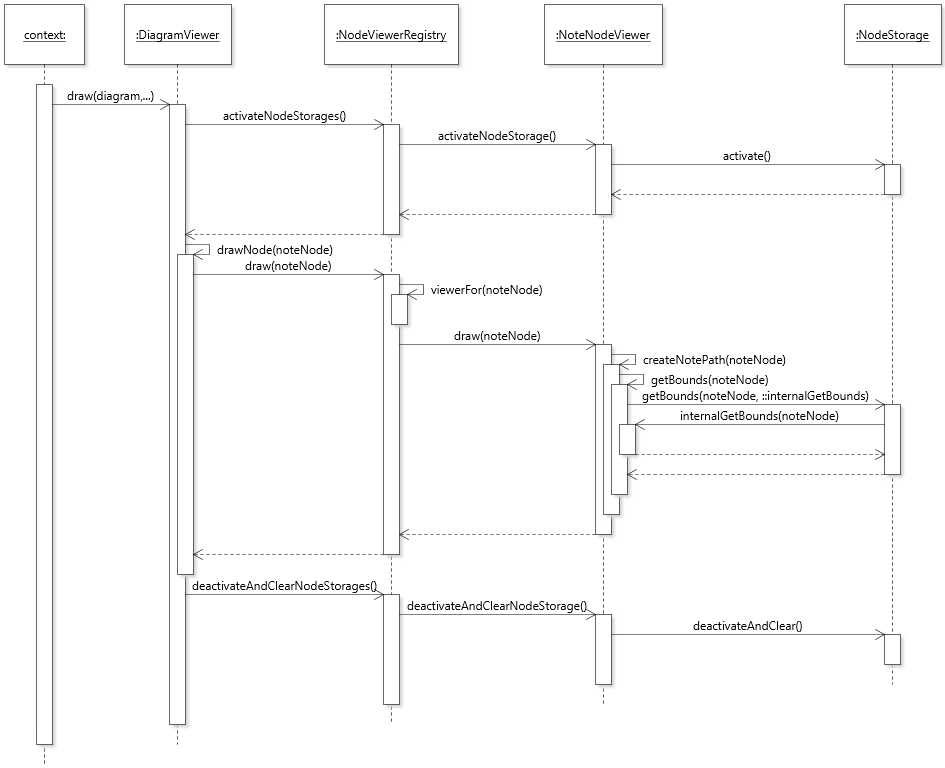
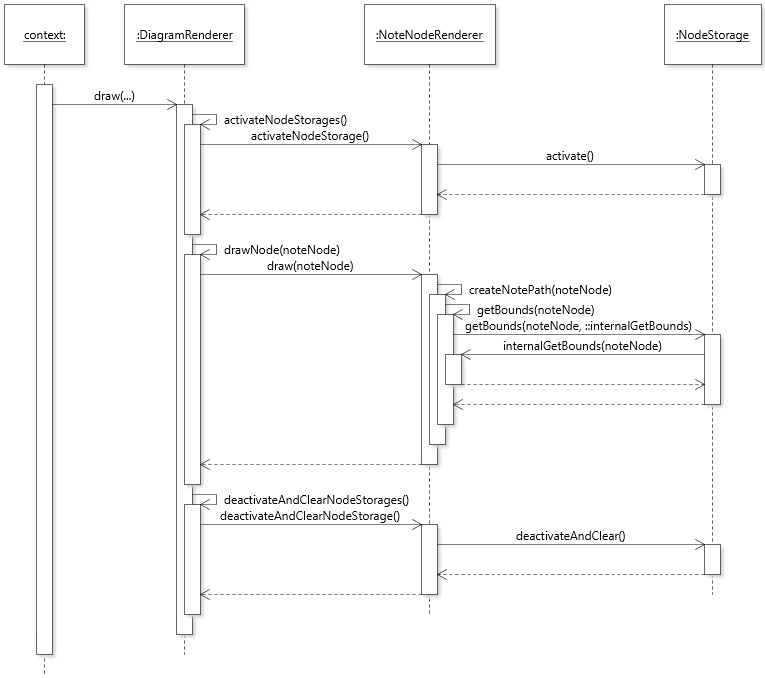
Issue #465 Update Node storage arch docs

diff --git a/docs/functional/NodeStorage.md b/docs/functional/NodeStorage.md
@@ -2,31 +2,31 @@
 
 ## Scope
 
-The Node Storage feature concerns how the bounds (bounding box) of nodes are stored during the execution of the `DiagramViewer#draw` method. This is a performance feature to avoid the inefficiency of continually re-computing the bounds of nodes during a single diagram rendering pass. The principle behind the Node Storage feature is that the bounding box for a node should only be computed _once for a given diagram rendering pass_. Because bounding boxes are used in many calculations for node and edge placement, it is necessary to cache the computed value to avoid repeatedly recomputing it.
+_Node Storage_ concerns how the bounds (bounding box) of nodes are stored during the execution of the `DiagramRenderer#draw` method. This is a performance feature to avoid the inefficiency of continually re-computing the bounds of nodes during a single diagram rendering pass. The principle behind the Node Storage feature is that the bounding box for a node should only be computed _once for a given diagram rendering pass_. Because bounding boxes are used in many calculations for node and edge placement, it is necessary to cache the computed value to avoid repeatedly recomputing it.
 
 ## Overall Design
 
-The feature is supported by a `NodeStorage` object that maps individual nodes to their corresponding bounds `Rectangle`. `NodeStorage` objects are managed by node viewers. In this way, a given node viewer, say `NoteNodeViewer`, will cache the bounds for all the `NoteNode`s. 
+The feature is supported by a `NodeStorage` object that maps individual nodes to their corresponding bounds `Rectangle`. `NodeStorage` objects are managed by node renderers. In this way, a given node renderer, say `NoteNodeRenderer`, will cache the bounds for all the `NoteNode`s of a given diagram. 
 
 The following class diagram illustrates how the design is realized with the illustration of a `NoteNode` (a node that represents a note on a UML diagram).
 
 ![JetUML Class Diagram](nodestorage1.class.png)
 
-* The `NodeViewerRegistry` declares two methods to manage node caching. `activateNodeStorages()` prepares and activates the cache by going through all its viewers and activating _their_ cache. It should be called once before a diagram is drawn. `deactivateAndClearNodeStorages()` clears the cache by going through all the viewers and clearing _their_ cache. It should be called once after a diagram is drawn. 
-* Method `getBounds(Node)` of interface `NodeViewer` is implemented by a final method in `AbstractNodeViewer` that delegates the call to `getBounds` of class `NodeStorage`. This call takes as second argument a `Function<Node,Rectangle>` that is the _bounds calculator_. This function object is use to compute the bounds in case of a cache miss. The design of the bounds calculation mechanism is described below.
+* The (Class)`DiagramRenderer` declares two methods to manage node caching. `activateNodeStorages()` prepares and activates the cache by going through all its viewers and activating _their_ cache. It should be called once before a diagram is drawn. `deactivateAndClearNodeStorages()` clears the cache by going through all the viewers and clearing _their_ cache. It should be called once after a diagram is drawn. 
+* For nodes, method `getBounds(DiagramElement)` of interface `DiagramElementRenderer` is implemented by a final method in `AbstractNodeRenderer` that delegates the call to `getBounds` of class `NodeStorage`. This call takes as second argument a `Function<Node,Rectangle>` that is the _bounds calculator_. This function object is use to compute the bounds in case of a cache miss. The design of the bounds calculation mechanism is described below.
 
 The following sequence diagram illustrates a scenario where a diagram that contains a single `NoteNode` is drawn.
 
 ![JetUML Class Diagram](NodeStorage.sequence.png)
 
-1. The top section shows the activation of the node storages (caches). What's important to note here is that in practice the `NodeViewerRegistry` aggregates many `NodeViewer` objects, so the call to `activateNodeStorage()` will be repeated once for each viewer in the registry.
-2. The middle section shows how the call to `NodeViewerRegistry#draw` eventually reaches `NoteNodeViewer#getBounds`, because this information is used to draw the node. This results in a call to `NodeStorage#getBounds` where the second argument (`::internalGetBounds`) is a _reference to a instance method of a particular object_, namely method `internalGetBounds` of the `NoteNodeViewer` object.
+1. The top section shows the activation of the node storages (caches). What's important to note here is that in practice the `DiagramRenderer` aggregates many `NodeVRenderer` objects, so the call to `activateNodeStorage()` will be repeated once for each element renderer managed by the diagram renderer.
+2. The middle section shows how the call to `DiagramRenderer#draw` eventually reaches `NoteNodeRenderer#getBounds`, because this information is used to draw the node. This results in a call to `NodeStorage#getBounds` where the second argument (`::internalGetBounds`) is a _reference to a instance method of a particular object_, namely method `internalGetBounds` of the `NoteNodeRenderer` object.
 3. Because there's a cache miss (the bounds of the note node were never previously computed), the bounds calculator `internalGetBounds` is called to compute and return the bounds.
 4. The bottom section is very similar to the top section, except that now the node storages are cleared.
 
 ## Bounds Calculation Mechanism
 
-The `NodeStorage` class is responsible for caching the bounds of different nodes, and computing these bounds for any node not in the cache. This computation requires specialized algorithms to compute the bounds of different nodes. To make it possible to reuse the `NodeStorage` class for all different types of nodes, its method `getBounds` takes as second argument a _bounds calculator_ function object of type `Function<Node, Rectangle>`. The concrete bounds calculators are implemented as protected methods of the `NodeViewer` subclasses that implement the abstract method `AbstractNodeViewer#internalGetBounds`. For example, in the class diagram above, `NoteNodeViewer` implements `internalGetBounds` with the code to compute the bounds of `NodeNodes`. With this design in place, the implementation of `AbstractViewer#getBounds` is greatly simplified as:
+The `NodeStorage` class is responsible for caching the bounds of different nodes, and computing these bounds for any node not in the cache. This computation requires specialized algorithms to compute the bounds of different nodes. To make it possible to reuse the `NodeStorage` class for all different types of nodes, its method `getBounds` takes as second argument a _bounds calculator_ function object of type `Function<Node, Rectangle>`. The concrete bounds calculators are implemented as protected methods of the `NodeRenderer` subclasses that implement the abstract method `AbstractNodeRenderer#internalGetBounds`. For example, in the class diagram above, `NoteNodeRenderer` implements `internalGetBounds` with the code to compute the bounds of `NodeNode`s. With this design in place, the implementation of `AbstractNodeRenderer#getBounds` is greatly simplified as:
 
 ```java
 @Override
@@ -36,4 +36,4 @@ public final Rectangle getBounds(Node pNode)
 }
 ```
 
-Here, the expression `this::internalGetBounds` is a reference to method `internalGetBounds` of the `NodeViewer` object upon which `getBounds` gets called. As illustrated in the sequence diagram, when there is a cache miss, this method will be the one called to compute the node's bounds.
+Here, the expression `this::internalGetBounds` is a reference to method `internalGetBounds` of the `NodeRenderer` object upon which `getBounds` gets called. As illustrated in the sequence diagram, when there is a cache miss, this method will be the one called to compute the node's bounds.
